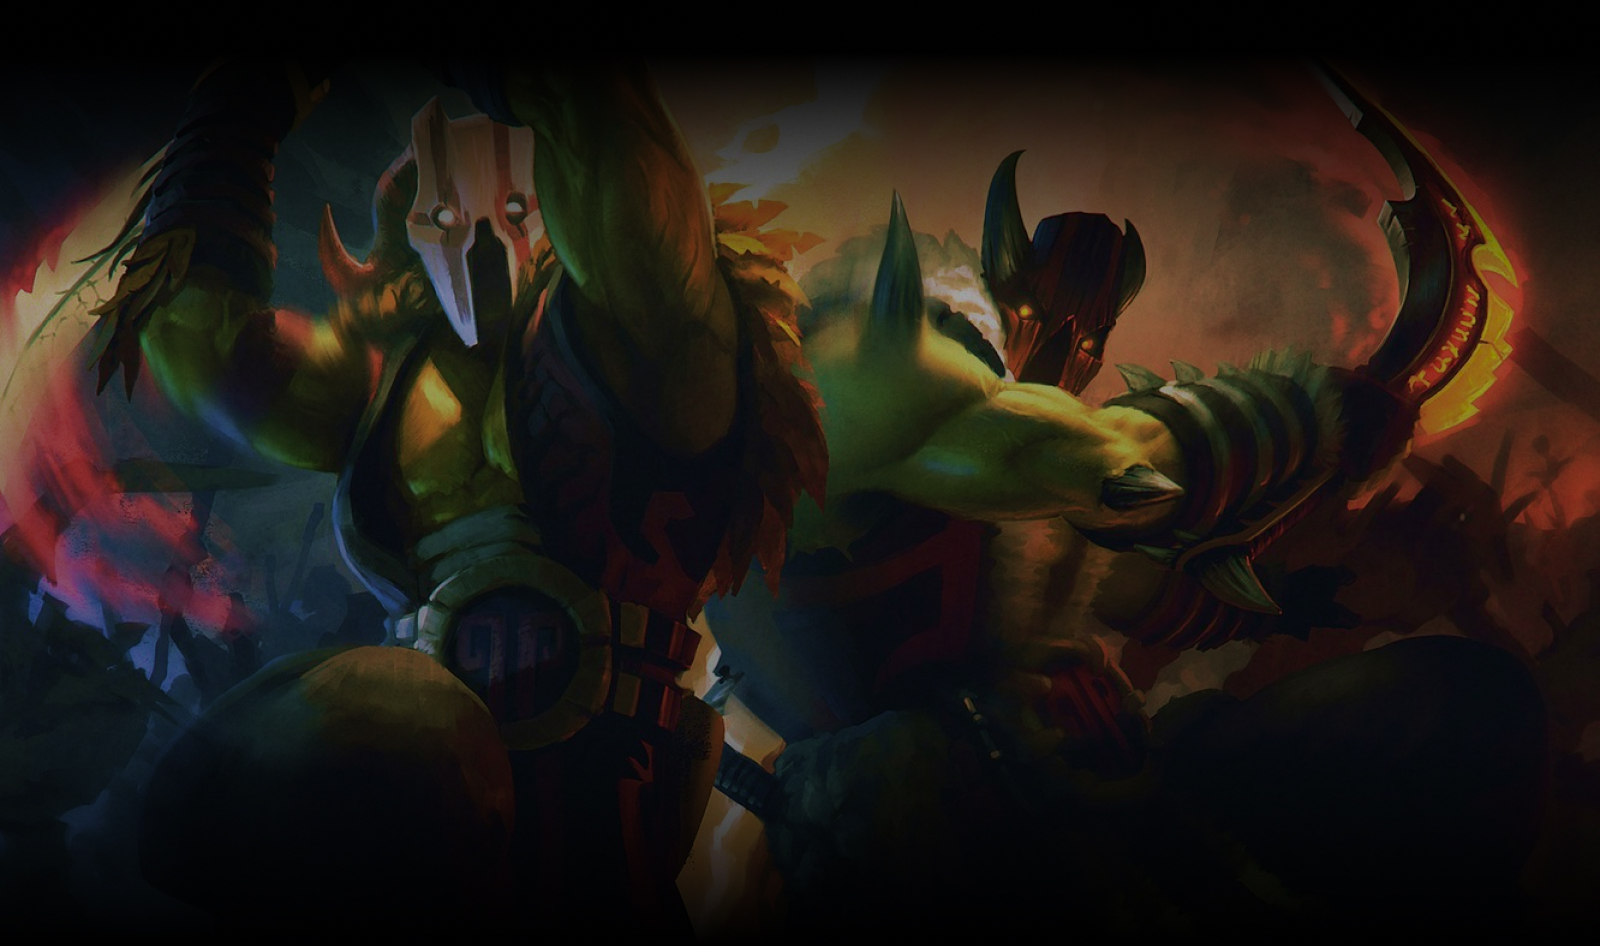
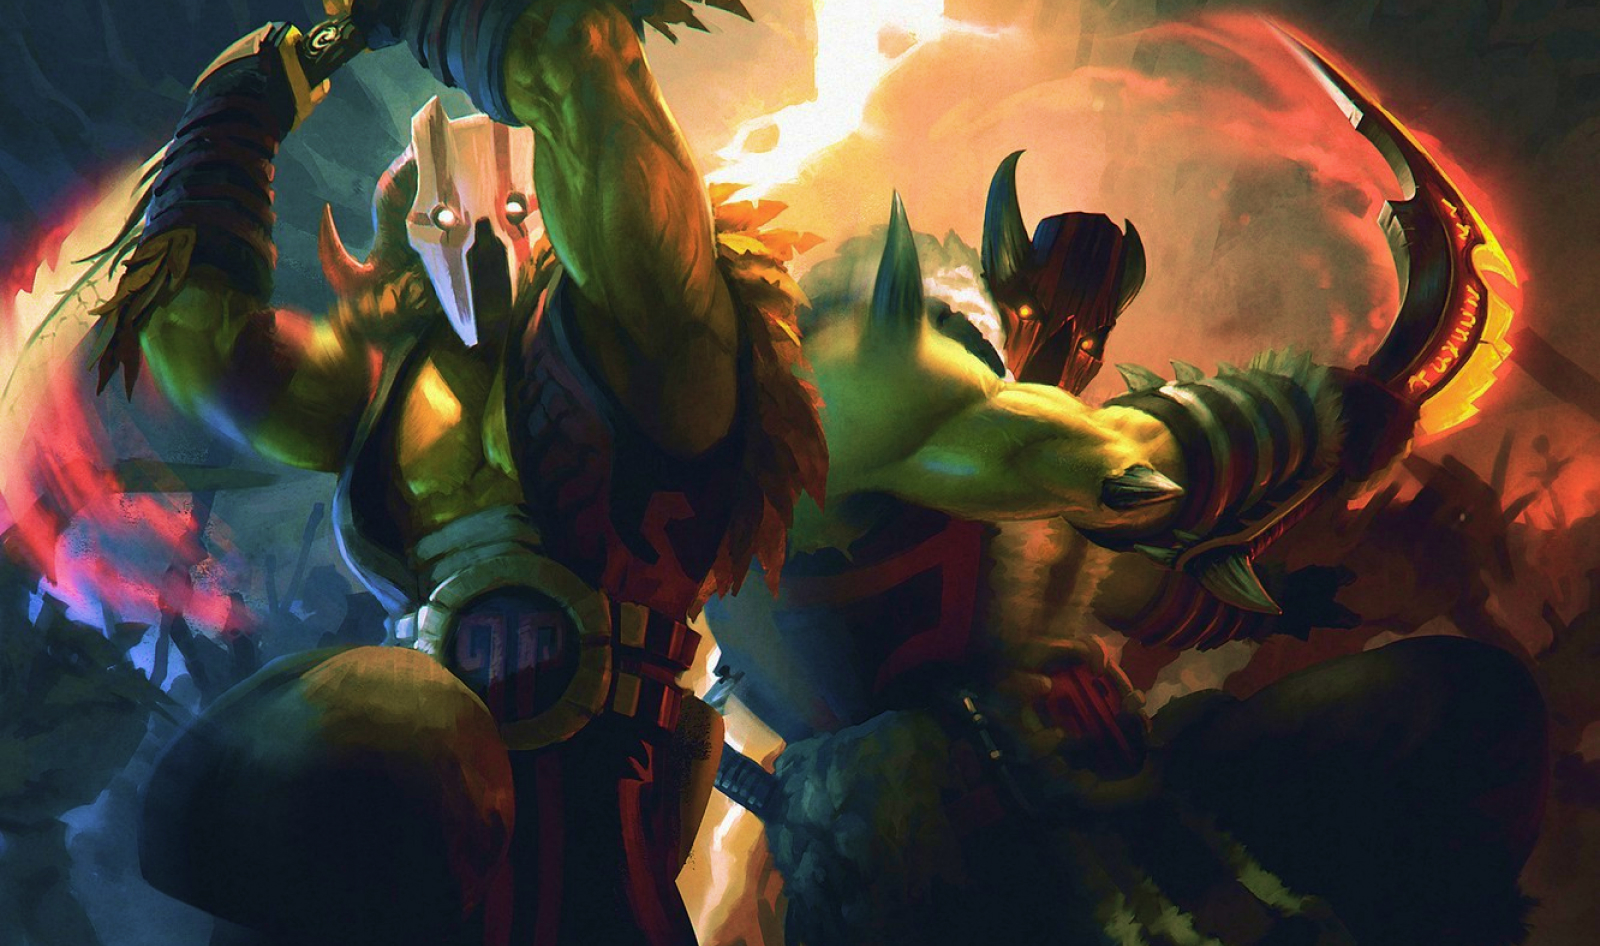
almost finished header

diff --git a/app/scss/style.scss b/app/scss/style.scss
@@ -5,10 +5,10 @@
 .header {
     background: linear-gradient(
             180deg,
-            #000000 5.58%,
-            rgba(0, 0, 0, 0.35) 31.25%,
-            rgba(0, 0, 0, 0.46) 61.61%,
-            rgba(0, 0, 0, 0.47) 76.69%,
+            #000000 3%,
+            rgba(0, 0, 0, 0.4) 35.7%,
+            rgba(0, 0, 0, 0.05) 61%,
+            rgba(0, 0, 0, 0.47) 80%,
             #000000 100%
         ),
         url(../images/header-bg.jpg);
@@ -45,6 +45,10 @@
         align-items: center;
     }
 
+    &__item {
+        position: relative;
+    }
+
     &__item,
     &__enter {
         color: #fff;
@@ -54,6 +58,25 @@
 
     &__item:not(:last-child) {
         margin-right: 40px;
+    }
+
+    &__item::after {
+        content: "";
+        position: absolute;
+        width: 0%;
+        height: 3px;
+        bottom: -5px;
+        left: 50%;
+        border-radius: 3px;
+        background-color: transparent;
+        transition: background-color 0.3s, left 0.3s, width 0.3s;
+    }
+
+    &__item:hover::after {
+        width: 100%;
+        left: 0;
+
+        background-color: #fff;
     }
 
     &__content {

diff --git a/app/scss/_global.scss b/app/scss/_global.scss
@@ -40,5 +40,13 @@ button {
     font-size: 20px;
     line-height: 1.2;
     font-weight: 500;
+    background-color: transpaernt;
     color: #fff;
+    transition: color 0.3s, background-color 0.3s;
+
+    &:hover,
+    &:focus {
+        background: #fff;
+        color: #000;
+    }
 }
